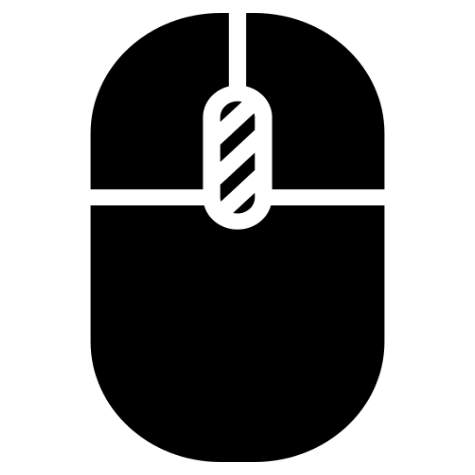
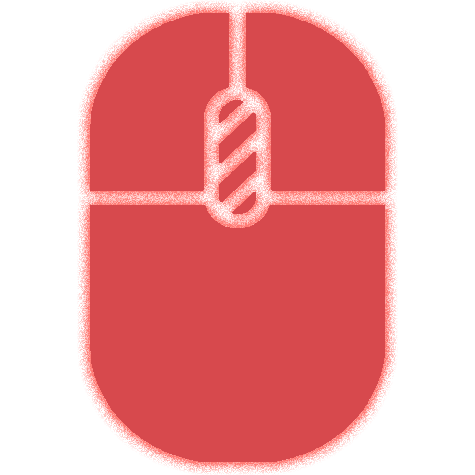
Cyber design

diff --git a/web/src/index.scss b/web/src/index.scss
@@ -1,6 +1,14 @@
 $mainColor: #22232c;
 $textColor: #c1c2c5;
-$mainFont: Roboto;
+$mainFont: Rajdhani;
+
+
+$cyber-blue: #2abdc7;
+$cyber-blue-opacity: #2abcc779;
+$cyber-blue-opacity-2: #2abcc75d;
+
+$cyber-red: #ff4e46;
+$cyber-red-opacity: #ff4e4679;
 
 $seconaryColor: rgba(12, 12, 12, 0.4);
 $secondaryColorLight: rgba(0, 0, 0, 0.5);
@@ -216,7 +224,8 @@ button:active {
     text-transform: uppercase;
     gap: 5px;
     font-size: 13px;
-    color: black;
+    color: $cyber-red;
+    text-shadow: -1.5px 1.5px 3px $cyber-red-opacity;
     font-weight: 600;
     img{
       width: 32px;
@@ -243,7 +252,9 @@ button:active {
   flex-direction: row;
   justify-content: space-between;
   p {
-    font-size: 16px;
+    font-size: 18px;
+    color: $cyber-blue;
+    text-shadow: -1.5px 1.5px 3px $cyber-blue-opacity;
   }
 }
 
@@ -258,9 +269,6 @@ button:active {
 
 // inventory slots
 .inventory-slot {
-  background-color: $seconaryColor;
-  background-repeat: no-repeat;
-  background-position: center;
   border-radius: 2.5%;
   image-rendering: -webkit-optimize-contrast;
   position: relative;
@@ -269,17 +277,30 @@ button:active {
   border-color: rgba(0, 0, 0, 0.2);
   border-style: inset;
   border-width: 1px;
+  background-size: contain;
+  background-size: 100% 100%;
+  background-repeat: no-repeat;
+}
+.inventory-slot-image{
+  width: 100%;
+  height: 100%;
+  position: absolute;
+  pointer-events: none;
+  background-color: $seconaryColor;
+  background-repeat: no-repeat;
+  background-position: center;
 }
 
 .inventory-slot-label-box {
-  background-color: $mainColor;
-  color: $textColor;
+  background: transparent;
   text-align: center;
   border-bottom-left-radius: 0.25vh;
   border-bottom-right-radius: 0.25vh;
   border-top-color: rgba(0, 0, 0, 0.2);
   border-top-style: inset;
-  border-top-width: 1px;
+  border-top-width: 0px;
+  color: $cyber-red;
+  text-shadow: -1.5px 1.5px 3px $cyber-red-opacity;
 }
 
 .inventory-slot-label-text {
@@ -294,7 +315,6 @@ button:active {
 }
 
 .inventory-slot-number {
-  background-color: white;
   color: black;
   height: 12px;
   border-top-left-radius: 0.25vh;
@@ -302,6 +322,9 @@ button:active {
   padding: 3px;
   font-size: 12px;
   font-family: $mainFont;
+  background-color: black;
+  color: $cyber-red;
+  text-shadow: -1.5px 1.5px 3px $cyber-red-opacity;
 }
 
 .item-slot-wrapper {
@@ -309,6 +332,8 @@ button:active {
   flex-direction: column;
   justify-content: space-between;
   height: 100%;
+  z-index: 2;
+  position: relative;
   p {
     font-size: 12px;
   }
@@ -333,6 +358,8 @@ button:active {
   gap: 3px;
   p {
     font-size: 12px;
+    color: $cyber-blue;
+    text-shadow: -1.5px 1.5px 3px $cyber-blue-opacity;
   }
 }
 
@@ -486,11 +513,12 @@ button:active {
 }
 
 .weight-bar {
-  background: rgba(0, 0, 0, 0.4);
   border: 1px inset rgba(0, 0, 0, 0.1);
   height: 0.8vh;
   border-radius: 5%;
-  overflow: hidden;
+  border-color: transparent;
+  border-bottom: 2px solid rgba(212, 69, 61, 0.8);
+  margin-bottom: 5px;
 }
 
 // Modal

diff --git a/web/src/components/inventory/InventorySlot.tsx b/web/src/components/inventory/InventorySlot.tsx
@@ -150,15 +150,22 @@ const InventorySlot: React.FC<SlotProps> = ({ inventory, item }) => {
         onMouseDown={mouseDownHandler}
         className="inventory-slot"
         style={{
-          filter:
+          opacity: isDragging ? 0.4 : 1.0,
+          backgroundImage: `url(${getItemUrl('border-ciber')})`
+          //border: isOver ? '1px dashed rgba(255,255,255,0.4)' : '',
+        }}
+      >
+        <div 
+          className="inventory-slot-image"
+          style={{
+            filter:
             !canPurchaseItem(item, inventory) || !canCraftItem(item, inventory.type)
               ? 'brightness(80%) grayscale(100%)'
               : undefined,
-          opacity: isDragging ? 0.4 : 1.0,
-          backgroundImage: `url(${item?.name ? getItemUrl(item as SlotWithItem) : 'none'}`,
-          border: isOver ? '1px dashed rgba(255,255,255,0.4)' : '',
-        }}
-      >
+            backgroundImage: `url(${item?.name ? getItemUrl(item as SlotWithItem) : 'none'}`,
+          }}
+        >
+        </div>
         {isSlotWithItem(item) && (
           <div className="item-slot-wrapper">
             <div

diff --git a/web/src/components/utils/ItemNotifications.tsx b/web/src/components/utils/ItemNotifications.tsx
@@ -32,11 +32,18 @@ const ItemNotification = React.forwardRef(
       <div
         className="item-notification-item-box"
         style={{
-          backgroundImage: `url(${getItemUrl(slotItem) || 'none'}`,
+          backgroundImage: `url(${getItemUrl('border-ciber')})`,
           ...props.style,
         }}
         ref={ref}
       >
+        <div 
+          className='inventory-slot-image'
+          style={{
+            backgroundImage: `url(${getItemUrl(slotItem) || 'none'}`,
+          }}
+        >
+        </div>
         <div className="item-slot-wrapper">
           <div className="item-notification-action-box">
             <p>{props.item.text}</p>

diff --git a/web/index.html b/web/index.html
@@ -5,7 +5,7 @@
     <meta name="viewport" content="width=device-width, initial-scale=1.0" />
     <link rel="preconnect" href="https://fonts.googleapis.com" />
     <link rel="preconnect" href="https://fonts.gstatic.com" crossorigin />
-    <link href="https://fonts.googleapis.com/css2?family=Roboto:wght@300;400;500;700&display=swap" rel="stylesheet" />
+    <link href="https://fonts.googleapis.com/css2?family=Poppins:wght@700&family=Rajdhani:wght@700&family=Roboto:wght@300;400;500;700&display=swap" rel="stylesheet" />
     <title>NUI React Boilerplate</title>
   </head>
   <body>

diff --git a/web/src/components/utils/WeightBar.tsx b/web/src/components/utils/WeightBar.tsx
@@ -40,8 +40,11 @@ const WeightBar: React.FC<{ percent: number; durability?: boolean }> = ({ percen
           visibility: percent > 0 ? 'visible' : 'hidden',
           height: '100%',
           width: `${percent}%`,
-          backgroundColor: color,
           transition: `background ${0.3}s ease, width ${0.3}s ease`,
+          position: 'relative',
+          backgroundColor: 'rgba(212, 69, 61, 0.8)',
+          top: '5px',
+          boxShadow: '-3px 2px 7px 1px rgba(215,73,78,1)'
         }}
       ></div>
     </div>
